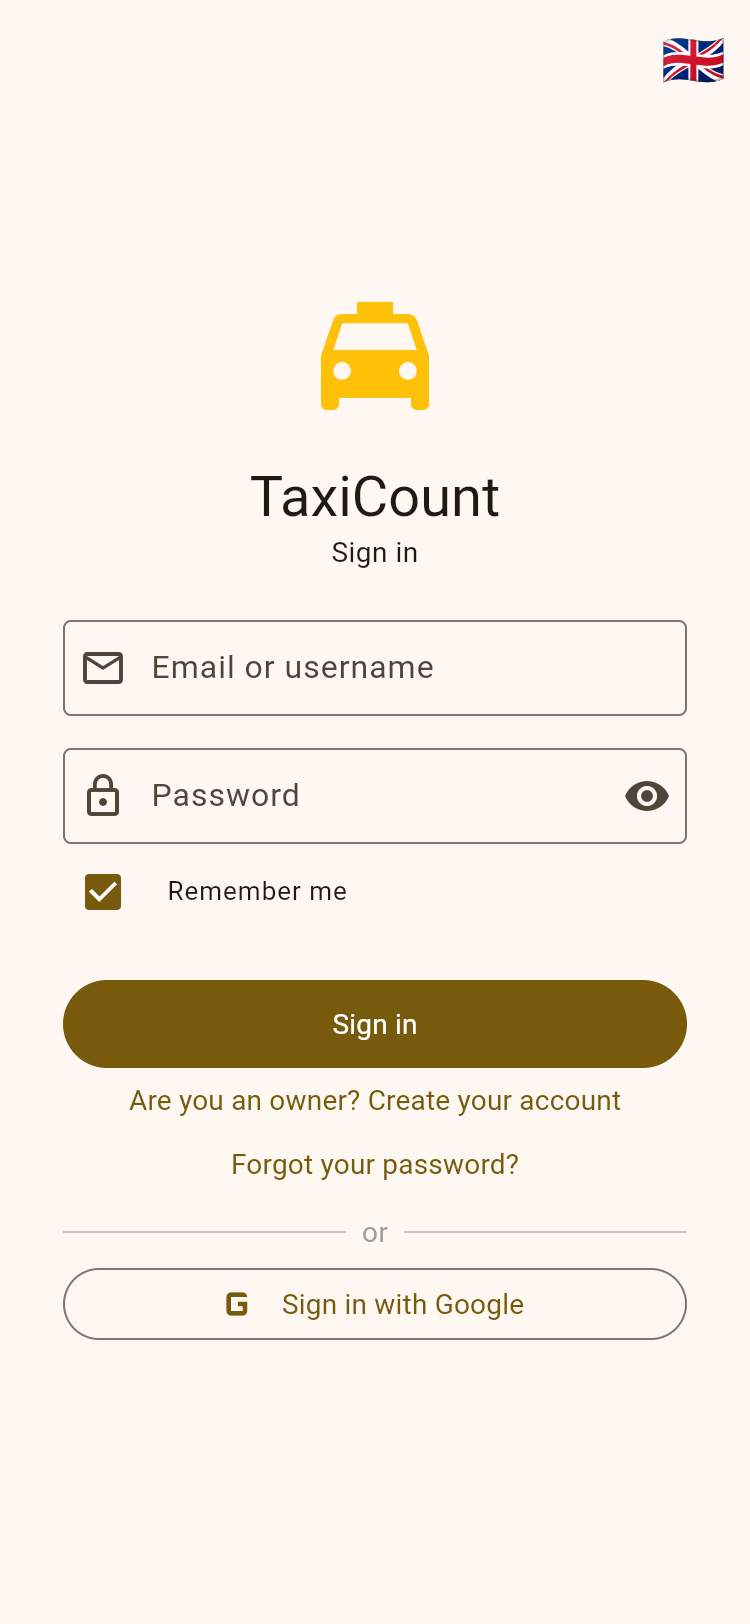
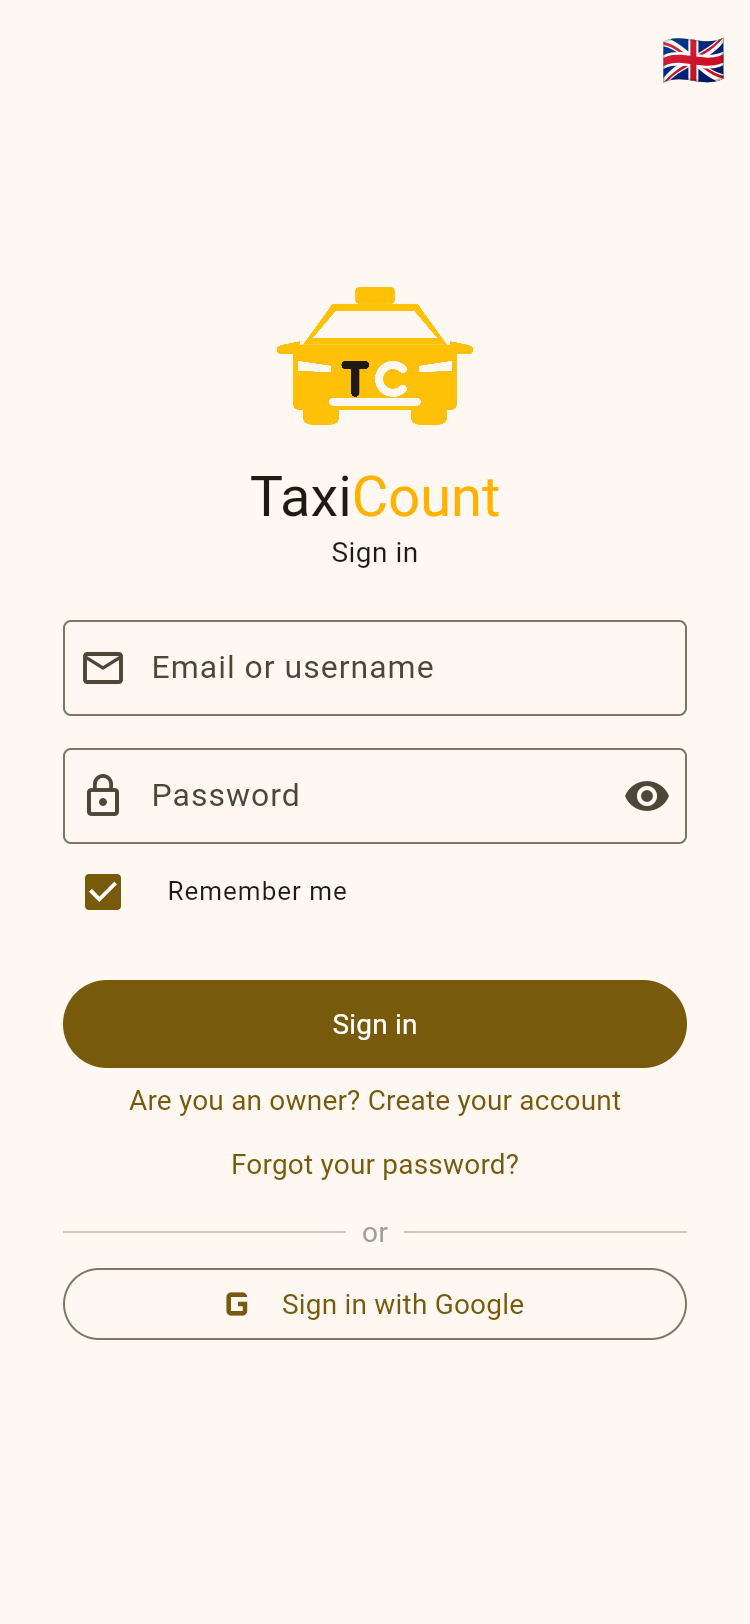
feat(branding): la marca original sustituye al icono de Material en la app
El icono que usaba la app era el glifo local_taxi de Material Design, que no
es registrable como marca ni atribuible como obra propia. Se sustituye por el
isotipo original en los dos sitios donde el taxi actua como LOGOTIPO:

- login_screen y driver_home_screen -> assets/brand/isotipo.png (nuevo asset,
  recortado al dibujo para que no arrastre aire vertical).
- Iconos de lanzador Android regenerados con flutter_launcher_icons; el fondo
  del icono adaptativo pasa de crema a ambar #FFC107.
- Iconos web: favicon, apple-touch-icon y los cuatro de icons/ (los maskable
  con margen de seguridad).
- util/brand.dart -> brandWordmark(): "Taxi" hereda el color del tema y
  "Count" va en ambre, replicando la marca tal como se registra. Se aplica al
  logotipo de login; funciona igual sobre el crema del cliente que sobre el
  oscuro del panel admin.

Los Icons.local_taxi restantes (solo_home, transaction_input, tutorial_gate,
format.dart) se quedan: ahi el taxi es iconografia funcional, no marca, y su
uso bajo Apache 2.0 no plantea problema.

Capturas del expediente rehechas con la marca ya aplicada.
flutter analyze limpio; cliente y admin compilan.

Changed region(s): [[0.368, 0.1539, 0.6747, 0.3387]]

diff --git a/frontend/lib/screens/login_screen.dart b/frontend/lib/screens/login_screen.dart
@@ -8,6 +8,7 @@ import 'package:supabase_flutter/supabase_flutter.dart';
 import '../config.dart';
 import '../l10n/app_localizations.dart';
 import '../services/data_service.dart';
+import '../util/brand.dart';
 import '../widgets/lang_flag.dart';
 
 /// Login / registro de Owners.
@@ -295,13 +296,9 @@ class _LoginScreenState extends State<LoginScreen> {
                 mainAxisSize: MainAxisSize.min,
                 crossAxisAlignment: CrossAxisAlignment.stretch,
                 children: [
-                  const Icon(Icons.local_taxi, size: 72, color: Colors.amber),
+                  Image.asset('assets/brand/isotipo.png', height: 72),
                   const SizedBox(height: 16),
-                  Text(
-                    'TaxiCount',
-                    textAlign: TextAlign.center,
-                    style: Theme.of(context).textTheme.headlineMedium,
-                  ),
+                  brandWordmark(context),
                   Text(
                     _isSignUp ? l.t('login_subtitle_signup') : l.t('login_subtitle_signin'),
                     textAlign: TextAlign.center,

diff --git a/frontend/lib/util/brand.dart b/frontend/lib/util/brand.dart
@@ -1,0 +1,19 @@
+import 'package:flutter/material.dart';
+
+/// Ámbar del segmento "Count" del logotipo (algo más profundo que el del
+/// isotipo, para que contraste sobre fondo claro).
+const brandAmber = Color(0xFFFFB300);
+
+/// El nombre con el corte de color de la marca registrada: "Taxi" hereda el
+/// color de texto del tema (así funciona igual sobre el crema del cliente que
+/// sobre el oscuro del panel de admin) y "Count" va en ámbar.
+Widget brandWordmark(BuildContext context, {TextStyle? style}) {
+  final base = style ?? Theme.of(context).textTheme.headlineMedium;
+  return Text.rich(
+    TextSpan(children: [
+      TextSpan(text: 'Taxi', style: base),
+      TextSpan(text: 'Count', style: (base ?? const TextStyle()).copyWith(color: brandAmber)),
+    ]),
+    textAlign: TextAlign.center,
+  );
+}

diff --git a/frontend/lib/screens/driver_home_screen.dart b/frontend/lib/screens/driver_home_screen.dart
@@ -343,7 +343,7 @@ class _DriverHomeScreenState extends State<DriverHomeScreen> with WidgetsBinding
               mainAxisSize: MainAxisSize.min,
               crossAxisAlignment: CrossAxisAlignment.stretch,
               children: [
-                const Icon(Icons.local_taxi, size: 64, color: Colors.amber),
+                Image.asset('assets/brand/isotipo.png', height: 64),
                 const SizedBox(height: 12),
                 Text(
                   l.t('dh_hello', {'name': displayName}),

diff --git a/CLAUDE.md b/CLAUDE.md
@@ -89,6 +89,13 @@ go-live #4. Discutir abans de cada extracció; `node --check` + `npm test` verds
 ## Frontend — `frontend/lib/`
 - **Dues apps, un codi (go-live #4, FET codi 2026-07-28):** `main.dart` = app d'operativa (APK conductor/jefe) · `main_admin.dart` = panell admin **web** (`flutter build web --target lib/main_admin.dart`, deploy a repo separat via `deploy-admin-web.yml`). El client NO importa cap `screens/admin_*` (auth_gate mostra stub `_AdminOnWebScreen`; els admins van al web) → tree-shaking treu l'admin de l'APK. `data_service.dart` i i18n es queden compartits. Gates: `auth_gate.dart` (client) · `admin_auth_gate.dart` (admin).
 - **i18n**: `app_localizations.dart` és un mapa `_values` (es/en/ca). NO el llegeixis sencer — `Grep` la clau (p.ex. `adm_coup_edit`) i edita el bloc. Ús: `context.l10n.t('key',{args})`. Apòstrofs catalans escapats `\'`.
+- **Marca (2026-07-30):** els actius originals viuen a `brand/` (isotip, logotip, marca mixta,
+  versions BN i fons fosc; veure `brand/README.md`). A l'app: `assets/brand/isotipo.png`
+  (declarat a `pubspec.yaml`) s'usa als dos llocs on el taxi fa de **logotip** —
+  `login_screen` i `driver_home_screen`. `util/brand.dart` → `brandWordmark(context)` pinta
+  "Taxi" amb el color del tema i "Count" en ambre `#FFB300` (funciona en clar i en fosc).
+  ⚠ La resta d'`Icons.local_taxi` (solo_home, transaction_input, tutorial_gate, format.dart)
+  són **iconografia funcional**, no marca: es queden com a icones de Material.
 - **Kit UI admin**: `screens/admin_theme.dart` (`AdminColors`, `adminAppBar`, `adminRowsCard`, `adminSectionTitle`, `AdminKpiTile`, `AdminPill`…). Reutilitza'l, no reinventis estils.
 - **Mòduls admin**: `AdminModuleScreen(module: 0..5)` = 0 Suport · 1 Retos · 2 Referits · 3 Monitorització · 4 Config · 5 Auditoria (amb sub-pestanya **Logs** = events de seguretat). Empreses i Facturació són pantalles pròpies.
 - **Dades**: `services/data_service.dart` (`DataService` + `FutureBuilder`; no Provider/Riverpod).

diff --git a/registro/memoria-obra.md b/registro/memoria-obra.md
@@ -122,6 +122,10 @@ deposita:
 | `capturas/05-cliente-login-catala.png` | Inicio de sesión en catalán |
 | `capturas/06-admin-login-web.png` | Acceso al panel de administración |
 
+Las capturas corresponden a la versión ya rebautizada con la marca original: el isotipo
+sustituye al pictograma de biblioteca que se usaba antes, y el nombre aparece con el corte
+de color de la marca que se registra, "Taxi" en el color del tema y "Count" en ámbar.
+
 **[PENDIENTE]** Faltan las capturas de las pantallas interiores —panel del conductor, cuadro
 de mando del titular, dictado por voz, informes y módulos de administración—, que requieren
 una sesión iniciada y debe aportar el autor desde su propia cuenta.
